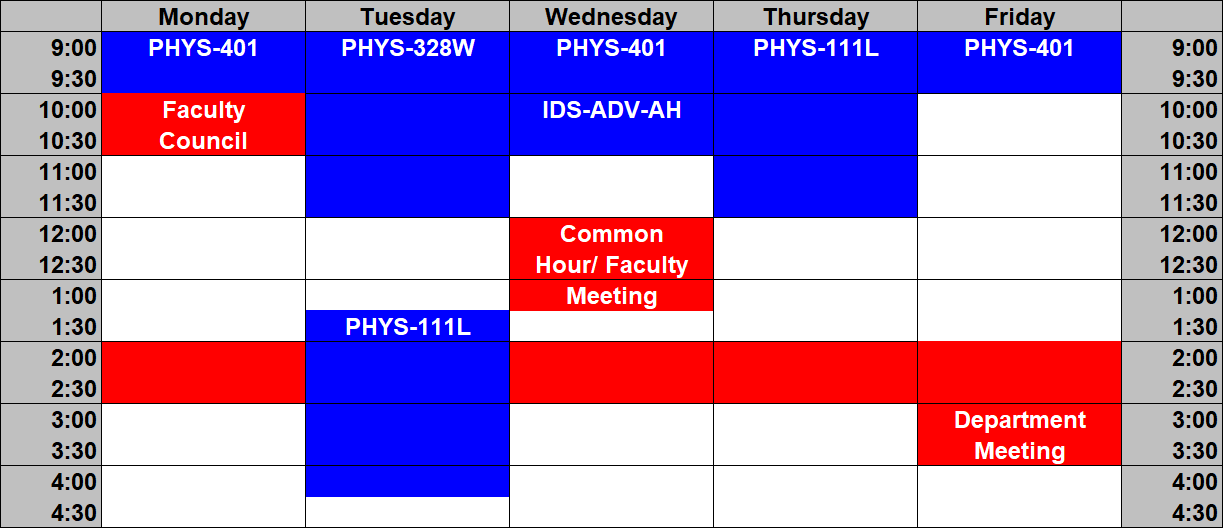
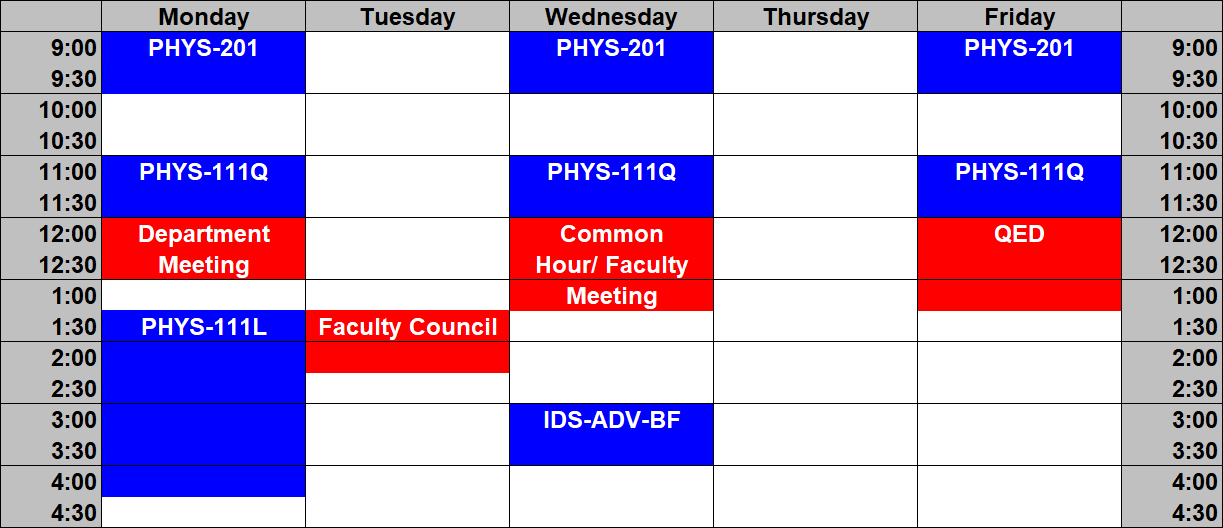
Pre-Fall 2024 update

diff --git a/index.md b/index.md
@@ -4,22 +4,18 @@ Professor at [Ursinus College](https://www.ursinus.edu) in [Physics & Astronomy]
 Mastodon: <a  rel="me" href="https://mas.to/@lewriley">@lewriley@mas.to</a><BR />
 he|him
 
-### Fall 2023 Courses
-- [PHYS-401: *Applications of Quantum Mechanics*](https://ursinus.instructure.com/courses/16705)
-- [PHYS-328W: *Analog Electronics*](https://ursinus.instructure.com/courses/16654)
-- PHYS-111L.A & D: *General Physics I Lab*
+### Fall 2024 Courses
+- [PHYS-201: *Classical Mechanics*](https://ursinus.instructure.com/courses/18593)
+- [PHYS-111Q.A: *General Physics I*](https://ursinus.instructure.com/courses/18543)
+- PHYS-111L.A: *General Physics I Lab*
 
-### Spring 2023 Courses
-- PHYS-122: *Electromagnetism*
-- PHYS-112L.A: *General Physics II Lab*
-- ENV-350: *Energy & Environment*
+### Spring and Summer 2024
+Alyssa Himmelreich (UC Physics '26) and Blake McNulty (UC Pre-Engineering '26) traveled to the Facility for Rare Isotope Beams (FRIB) at Michigan State University to complete inverse-kinematics proton scattering measurements of the <I>N=28</I> isotones <SUP>44</SUP>S and <SUP>42</SUP>Si. The combined results of the Coulomb excitation and proton scattering measurements of <SUP>42</SUP>Si will shed light on the relative contributions of neutrons and protons to the collective excitation of this nucleus.
+
+Ewan Chattin (UC Pre-Engineering '25) spent 5 weeks at the [Fox Lab at Florida State University](http://fsunuc.physics.fsu.edu/research/fox_lab/) studying the neutron shell structure of <SUP>62</SUP>Ni via the <SUP>61</SUP>Ni + d &rarr; <SUP>62</SUP>Ni + p neutron transfer reaction using the the Super Enge Split Pole Spectrograph with the CeBrA demonstrator array.
 
 ### Spring and Summer 2023
 
 Mill Heinze (UC Physics '24), Jake Kosa (UC CS '25), and Alyssa Himmelreich (UC Physics '26) traveled to the Facility for Rare Isotope Beams (FRIB) at Michigan State University for a first attempt to measure Coulomb excitation of the very exotic nucleus <SUP>42</SUP>Si, a nucleus that has twice as many neutrons as protons. The rate of <SUP>42</SUP>Si nuclei produced was not quite enough to complete the measurement. In July, Ian Conroy (UC Physics '24) and Jake Kosa returned to FRIB in July for the successful second attempt!
 
-Meanwhile, Mill Heinze and Ian Conroy spent 5 weeks at the [Fox Lab at Florida State University](http://fsunuc.physics.fsu.edu/research/fox_lab/) extending the experimental study of <SUP>53</SUP>Cr by combining the Super Enge Split Pole Spectrograph with the CeBrA array of CeBr scintillator detectors to collect the gamma rays emitted by excited <SUP>53</SUP>Cr following the <SUP>52</SUP>Cr + d &rarr; <SUP>53</SUP>Cr + p transfer reaction. This data will provide additional details of the excited states populated in the reaction.
-
-### Summer 2022
-
-Mill Heinze (UC Physics '24) and Dylan Simms (UC Physics '23) were at the [Fox Lab at Florida State University](http://fsunuc.physics.fsu.edu/research/fox_lab/), using the 9 MV Tandem Van de Graaff accelerator to shoot a beam of deuterons at a <SUP>52</SUP>Cr target. They studied the neutron transfer reaction <SUP>52</SUP>Cr + d &rarr; <SUP>53</SUP>Cr + p by measuring the momentums of protons produced in the reaction with the Super Enge Split Pole Spectrograph. Their work will improve the experimental picture of neutron shell structure beyond the N=28 major shell.
+Meanwhile, Mill Heinze and Ian Conroy spent 5 weeks at the [Fox Lab at Florida State University](http://fsunuc.physics.fsu.edu/research/fox_lab/) extending the experimental study of <SUP>53</SUP>Cr by combining the Super Enge Split Pole Spectrograph with the CeBrA demonstrator array of CeBr scintillator detectors to collect the gamma rays emitted by excited <SUP>53</SUP>Cr following the <SUP>52</SUP>Cr + d &rarr; <SUP>53</SUP>Cr + p transfer reaction. This data will provide additional details of the excited states populated in the reaction.

diff --git a/cv.md b/cv.md
@@ -39,6 +39,7 @@
 ---
 
 ### Grants and Awards
+- - National Science Foundation, Major Research Instrumentation (MRI) Grant <A HREF="https://www.nsf.gov/awardsearch/showAward?AWD_ID=2405485">PHY-2405485</A>, "MRI: A New CeBr3 Gamma-Ray Detection Array (CeBrA) for Particle-Gamma Coincidence Experiments at the FSU Super-Enge Split-Pole Spectrograph," $721,072 (2024-2027).
 - National Science Foundation, Research in Undergraduate Institutions (RUI) Grant <A HREF="http://www.nsf.gov/awardsearch/showAward?AWD_ID=2208804">PHY-2208804</A>, "RUI: Shell Structure and Collective Excitations in Exotic Nuclei," $152,151, supporting research in experimental nuclear structure with undergraduates (2022-2025).
 - National Science Foundation, Research in Undergraduate Institutions (RUI) Grant <A HREF="http://www.nsf.gov/awardsearch/showAward?AWD_ID=1617250">PHY-1617250</A>, "RUI: Shell Structure and Core Polarization in Exotic Nuclei," $135,000, supporting research in experimental nuclear structure with undergraduates (2016-2019).
 - National Science Foundation, Research in Undergraduate Institutions (RUI) Grant <A HREF="http://www.nsf.gov/awardsearch/showAward?AWD_ID=1303480">PHY-1303480</A>, "RUI: Shell Structure and Core Polarization in Exotic Nuclei," $128,493, supporting research in experimental nuclear structure with undergraduates (2013-2016).
